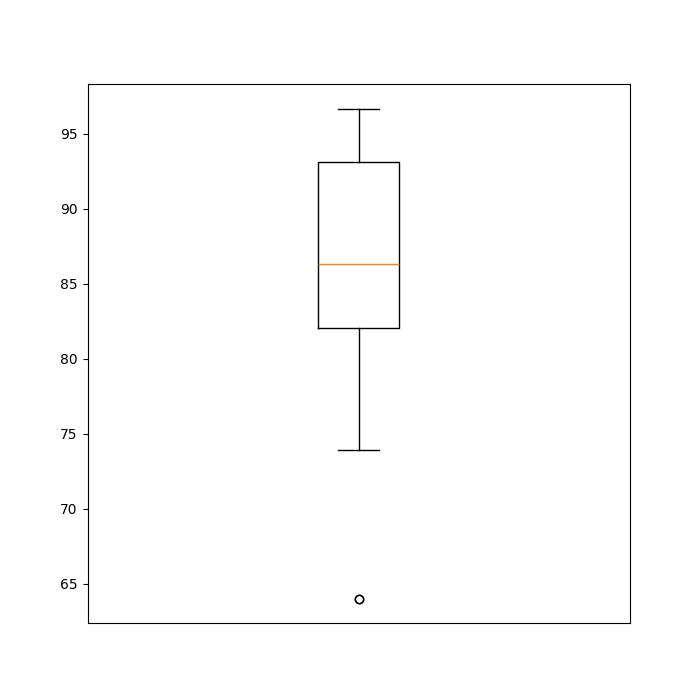
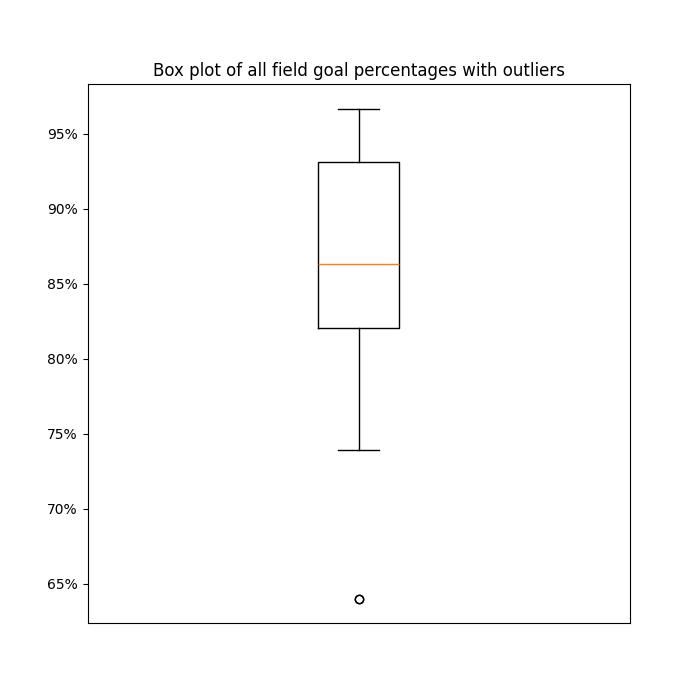
functions find outlies using IQR, Q1 and Q3

diff --git a/FGPercentageStats.py b/FGPercentageStats.py
@@ -2,6 +2,8 @@
 deviation and mean of the data"""
 import math
 
+import numpy as np
+
 """This function will find the average Field Goal Percentage amongst all kickers in the NFL"""
 
 
@@ -130,6 +132,24 @@ def boxPlot(data):
         results.append(float(row[14]))
     return results
 
+
+def BoxplotOutliers(data, boxdata):
+    median = np.median(boxdata)
+    upper_quartile = np.percentile(boxdata, 75)
+    lower_quartile = np.percentile(boxdata, 25)
+    iqr = upper_quartile - lower_quartile
+    minimum = lower_quartile - (1.5 * iqr)
+    maximum = upper_quartile + (1.5 * iqr)
+    if maximum > 100:
+        maximum = 100
+    lower_outliers = []
+    upper_outliers = []
+    for row in data:
+        if float(row[14]) < minimum:
+            lower_outliers.append(row[0])
+        if float(row[14]) > maximum:
+            upper_outliers.append(row[0])
+    return lower_outliers, upper_outliers
 "This function determines field goal percentage for each specific distance using all of the data"
 
 

diff --git a/graphs.py b/graphs.py
@@ -1,7 +1,7 @@
 """this file contains all functions related to graphing"""
 import matplotlib.pyplot as plt
 import numpy as np
-
+import matplotlib.ticker as mtick
 
 """this function graphs the number of kickers that fall within one standard deviation, fall below one standard 
 deviation, and above one standard deviation."""
@@ -60,5 +60,9 @@ def BoxPlotGraph(boxdata):
     figure = plt.figure(figsize=(7, 7))
     plt.boxplot(boxdata)
     ax = plt.gca()
+    fmt = '%.0f%%'
+    plt.title("Box plot of all field goal percentages with outliers")
+    xticks = mtick.FormatStrFormatter(fmt)
+    ax.yaxis.set_major_formatter(xticks)
     ax.get_xaxis().set_visible(False)
     plt.savefig("Graphs/BoxPlot.jpg")

diff --git a/calculations.py b/calculations.py
@@ -45,6 +45,7 @@ def FieldGoalPercentage_Total(data):
 def FieldGoalTotal_Outliers(data):
     boxdata = boxPlot(data)
     BoxPlotGraph(boxdata)
+    BoxplotOutliers(data, boxdata)
 
 
     """This function is responsible for taking the data, finding the average for each of the distances(0-19), (20-29), 
